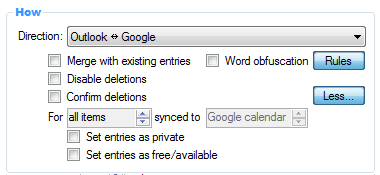
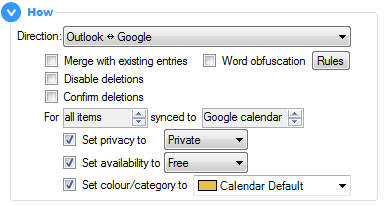
User guide updated to v2.9.6 Twitter box dimensions fixed. #1466

diff --git a/_layouts/default.html b/_layouts/default.html
@@ -69,10 +69,10 @@
           <br/>
 
           <h1 style="margin-top:0px; text-align:center; font-family: 'Architects Daughter', 'Helvetica Neue', Helvetica, Arial, serif;">Tweets</h1>
-          <div style="display: inline-block; height: 155px;"></div>
+          <div style="display: inline-block; height: 255px;"></div>
           
-          <span id="foobar" style="position:absolute; clip: rect(44px,220px,204px,0px); margin-top: -60px;">
-            <a class="twitter-timeline" data-width="220" data-height="250" href="https://twitter.com/OGcalsync?ref_src=twsrc%5Etfw">Tweets by OGcalsync</a>
+          <span id="foobar" style="position:absolute; clip: rect(73px,220px,350px,0px); margin-top: -90px;">
+            <a class="twitter-timeline" data-width="220" data-height="350" href="https://twitter.com/OGcalsync?ref_src=twsrc%5Etfw">Tweets by OGcalsync</a>
             <script async src="https://platform.twitter.com/widgets.js" charset="utf-8"></script>
           </span>
           

diff --git a/guide/syncoptions.md b/guide/syncoptions.md
@@ -21,27 +21,29 @@ These next configuration items help you manage what should happen with items tha
 
 **Merge with existing entries:** It is recommended the target calendar is either empty or a new calendar created specifically for OGCS to sync with. This will make it easier for you to identify what has been synced etc. However, if you need to sync into a calendar that contains items not present in the source calendar and <font style="color:red">you want to keep those items</font>, check this option. 
 <div class="tip" style="margin-bottom:7px">:bulb: Such a situation may arise if you wish to sync your work Outlook calendar in to the default Google calendar, in order that Alexa or Google Home can announce your schedule for the day.</div>
+
 **Disable deletions:** This option is mostly a safeguard to be used by new users of OGCS. Once you have confidence the tool is working as expected, it should most likely be switched off.  
-**Confirm deletions:** Once deletions have been permitted, if you turn this option on, each deletion will prompt you to confirm or deny if this should be allowed. Again, this is to help you gain confidence you have the right configuration and OGCS is doing what you expect. It is not intended as a setting to have enabled long term.
+**Confirm deletions:** Once deletions have been permitted, if you turn this option on, each deletion will prompt you to confirm or deny if this should be allowed. Again, this is to help you gain confidence you have the right configuration and OGCS is doing what you expect. It is not intended as a setting to have enabled long term.  
+If a sync causes every single item in the target calendar to be deleted before creating new items a-new, then there is always a "bulk deletion" warning, irrespective of the above settings. This is to provide a chance to confirm this is definitely expected and intended.  
 
-<img src="options-how-regex.png" alt="Word Obfuscation Screenshot" align="right" />
-**Word obfuscation:** Through the use of [regular expressions](https://www.regular-expressions.info), certain letters, words or phrases in the calendar item’s subject can be altered. By clicking the `Rules` button, you will see a table with `Find` and `Replace` columns; each row of regular expression rules would be applied in the order given using AND logic.
-<div class="tip">:memo: If two-way sync is configured, the obfuscation can only work in one direction - choose which from the drop down menu.</div>
-<br/>
-
+Specific attributes can be overridden in the target calendar:
 <img src="options-how-more.png" alt="More Options Screenshot" align="right" />
-**More:** Click the button to expand the section for further options. The button text will change to `Less`, which if clicked will shrink the section back to its original size.
-
-The following options override the item’s attribute when synced to the target calendar.
 <ul style="margin-top:-20px; margin-left:20px">
-  <li>Set as private</li>
-  <li>Set as free/available</li>
+  <li>Set privacy as private/public</li>
+  <li>Set availability as free/busy. Also tentative/out of office if syncing to Outlook</li>
+  <li>Set colour/category</li>
 </ul>
 For two-way sync, you can choose between Outlook and Google as to which is the target calendar, as well as whether to implement the override
 <ul style="margin-top:-20px; margin-left:20px">
   <li>For all synced items; or</li>
   <li>Only for items newly created by the sync tool</li>
 </ul>
+This second option means that the overridden attribute(s) will not sync back to the source calendar - otherwise, for example, _everything_ would end up private which is probably not what is intended.
+
+<img src="options-how-regex.png" alt="Word Obfuscation Screenshot" align="right" />
+**Word obfuscation:** Through the use of [regular expressions](https://www.regular-expressions.info), certain letters, words or phrases in the calendar item’s subject can be altered. By clicking the `Rules` button, you will see a table with `Find` and `Replace` columns; each row of regular expression rules would be applied in the order given using AND logic.
+<div class="tip">:memo: If two-way sync is configured, the obfuscation can only work in one direction - choose which from the drop down menu.</div>
+<br/>
 
 
 ## When
@@ -52,7 +54,7 @@ _Specify when to run a sync._
 If a recurring appointment spans the date range specified, then it will also be synced. A minor exception to this are annual recurrence patterns - these will only sync if the month of the appointment falls into a month within the sync date range.
 <div class="tip" style="padding-bottom:8px">:bulb: To optimise the sync speed, the smaller the date range the better. Try to avoid a large date range combined with a frequent sync interval.</div>
 
-**Interval:** The number of hours or minutes between automated syncs. 
+**Schedule:** The number of hours or minutes between automated syncs. 
 Setting it to zero turns off automated syncs, relying upon on-demand manual synchronisations.  
 15 minutes is the minimum sync frequency allowed, unless Push Sync is _also_ enabled in which case it is 120 minutes.  
 **Push Outlook Changes Immediately:** Have OGCS detect when calendar items are changed within Outlook and sync them within 2 minutes.
@@ -64,17 +66,30 @@ _Specify which attributes to include in the sync._
 
 With all of these settings, when turned **on** they will only sync from that point forward. To sync them for all calendar items, press and hold `Shift` while clicking the `Sync` button. When turning sync **off** data already synced will not be removed - this will need to be done manually and is to protect against loss of data should two-way sync ever be configured.
 
-**Description:** The body of the appointment.
-<p style="margin-left:40px; margin-top:-20px"><b>One-way to Google:</b> If two-way sync is configured, optionally only sync the description to Google. Because has a maximum of 8kb held in plain text, it may cause information or formatting to be lost if subsequently synced back from Google.</p>
+<img src="options-what.png" alt="What Screenshot" align="right" />
 
-**Attendees:** Sync the meeting attendees, using their email address as their unique identifier. 
+**Location:** The location of the appointment.
+
+**Description:** The body of the appointment.
+<p style="margin-left:40px; margin-top:-20px">**One-way to Google:** If two-way sync is configured, optionally only sync the description to Google. Because Google has a maximum of 8kb held in plain text, it may cause information or formatting to be lost if subsequently synced back from Google.</p>
+
+**Attendees:** Sync the meeting attendees, using their email address as their unique identifier. A default maximum of 200 attendees can be synced, or specify a lower limit.
 <div class="tip">:warning:This option is likely to trigger the Outlook security popup. If you cannot prevent this through <a href="{{ site.github-repo }}/wiki/FAQs---Outlook-Security#how-can-i-stop-it-happening">standard settings</a>, it may be best to stop syncing attendees.</div>
 
-<p style="margin-left:40px;"><b>Cloak email in Google:</b> Google has been known to <a href="{{ site.github-repo }}/wiki/FAQs#why-are-my-meeting-attendees-getting-notified-of-updates-to-events-in-google">send out unsolicited notification emails</a> to attendees. To prevent this, the default is to “cloak” the attendee’s email address by appending <code class="highlighter-rouge">.ogcs</code>, thus making any such emails undeliverable.</p>
+<p style="margin-left:40px;">**Cloak email in Google:** Google has been known to <a href="{{ site.github-repo }}/wiki/FAQs#why-are-my-meeting-attendees-getting-notified-of-updates-to-events-in-google">send out unsolicited notification emails</a> to attendees. To prevent this, the default is to “cloak” the attendee’s email address by appending <code class="highlighter-rouge">.ogcs</code>, thus making any such emails undeliverable.</p>
+
+<img src="ogcs-colour.gif" alt="Demo of syncing colours" align="right" width="50%"/>
+**Colours/categories:** The Outlook category and/or Google colour can be synced, which uses an algorithm to match to the closest equivalent colour. If there are multiple categories in Outlook with the same colour, or the wrong colour is being matched, there are more fine-grained controls under the `Mapping` button.
+
+<p style="margin-left:40px; margin-top:-20px">The <code class="highlighter-rouge">Test map</code> section shows how each colour will map to the other system. The table below can be used to specify alternative mappings from the default - eg the red Outlook "My Test" category mapped to the "Banana" colour in Google.</p>
+
+<p style="margin-left:40px; margin-top:-20px"><b>Single category only:</b> Google only allows a single colour, so this would enforce only one Outlook category. If unchecked, the sync will create new categories for each synced colour, with a name prefixed by "OGCS ".</p>
+
 
 **Reminders:** Include reminders/alerts in order to be notified of upcoming meetings. 
 
 <p style="margin-left:40px; margin-top:-20px"><b>Use Google Default:</b> It is possible to configure a default reminder within a Google calendar that all items within it will inherit. Check this option to allow this behaviour to continue; otherwise the Outlook reminder will take precedence - and if none is set, Google will not have a reminder either.</p>
+<p style="margin-left:40px; margin-top:-20px"><b>Use Outlook Default:</b> It is possible to configure a default reminder within Outlook settings that all items will inherit. Check this option to allow this behaviour to continue; otherwise the Google reminder with the shortice notice period will take precedence - and if none is set, Outlook will not have a reminder either.</p>
 <p style="margin-left:40px; margin-top:-20px"><b>DND between hours x and y:</b> Syncing from Outlook to Google is the most popular option, usually in order to see work commitments on an Android phone. For all-day appointments especially, this can mean an unnecessary midnight alert (thanks to the default Microsoft reminder of 15 minutes)! To avoid this, configure a “do not disturb” window in which reminders will not be synced.</p>
 
 

diff --git a/guide/appbehaviour.md b/guide/appbehaviour.md
@@ -13,23 +13,26 @@ next-url: help
 ![Application Behaviour Settings Screenshot](options-appbehaviour.png)
 
 **Start on login:** Set OGCS to start up when you log in to Windows. 
-<p style="margin-left:40px;margin-top:-20px"><b>Delay:</b> On system’s that take a little while to get started, OGCS can encounter problems if starts too quickly - especially if Outlook is also set to start on startup. If OGCS only seems to have problems on system startup, try setting a delay.</p>
+<p style="margin-left:40px;margin-top:-20px"><b>Delay:</b> On system’s that take a little while to get started, OGCS can encounter problems if it starts too quickly - especially if Outlook is also set to start on startup. If OGCS only seems to have problems on system startup, try setting a delay.</p>
+<p style="margin-left:40px;margin-top:-20px"><b>For all users:</b> Configure OGCS to start, with optional delay, for an user that logs in to Windows.</p>
 
-**Hide splash screen:** If you have donated £10 or more, you have the option of stopping the startup splash screen from displaying.  
+**Hide splash screen:** If you have donated £10 or more, you have the option of stopping the startup splash screen from displaying. Optionally, also to suppress any prompts to spread the word on social media.  
 **Start in tray:** Instead of showing the application window on startup, set it to only display in the Windows notification tray are  a. From here you can control the syncs or show the application by right clicking the icon.  
 **Minimise to tray:** By default, OGCS will have an application icon in the main taskbar area. This option will make it only display an icon in the notification area instead.  
 <img src="options-appbehaviour-close.png" align="right" width="60%"/>
 **Close button minimises:** Prevent the application from closing when clicking on the standard top right “close” button. Instead it will simply minimise.   
 **Show bubble tooltip in tray when syncing:** Get notifications when a sync begins and a summary of the changes on completion.  
 **Make application portable:** Only available, but enabled by default, if the portable ZIP application is being used.  
-**Create CSV files of calendar entries:** This can be turned on to aid investigation of a possible problem, usually under instruction having raised a [GitHub Issue]({{ site.github-repo }}/issues).  
 
 ### Logging
-**Logging level:** Set the level of detail captured in the log file. From `OFF` through to `ALL`, with `DEBUG` being the default. Ensure it is set to `DEBUG` or greater if attaching it to a [GitHub Issue]({{ site.github-repo }}/issues).
+**Logging level:** Set the level of detail captured in the log file. From `OFF` through to `ALL`, with `DEBUG` being the default. Ensure it is set to `DEBUG` or greater if attaching it to a [GitHub Issue]({{ site.github-repo }}/issues).  
+**Feedback errors to help improve OGCS:** If you are unfortunate enough to encounter an error, there is the option to automatically report this and future errors back to the developer - which helps them proactively identify problems and fix them!  
+**Disable telemetry:** By default the software reports basic anonymised data, such as version of OGCS and Outlook being used.  
+**Create CSV files of calendar entries:** This can be turned on to aid investigation of a possible problem, usually under instruction having raised a [GitHub Issue]({{ site.github-repo }}/issues).  
 
 ## Proxy Settings
-**No Proxy:** When there is a direct connection to the internet, for example, using home broadband.
-Inherit from Internet Explorer: Use the same settings as configured in Internet Explorer. Normally the best option if connecting through a corporate proxy, or use a PAC file etc.  
+**No Proxy:** When there is a direct connection to the internet, for example, using home broadband.  
+**Inherit from Internet Explorer:** Use the same settings as configured in Internet Explorer. Normally the best option if connecting through a corporate proxy, or use a PAC file etc.  
 **Custom Settings:** Manually enter the proxy server and port, plus your proxy credentials if required.
 
 

diff --git a/guide/google.md b/guide/google.md
@@ -14,16 +14,22 @@ This is where you configure the Google calendar you wish to sync.
 
 ![Google Settings Screenshot](google.png)
 
-**Retrieve calendars:** Until you click this button, you will not be able to select the exact calendar. If this is the first time you are using OGCS, it will step you through the process of authorising the application to access your calendar.  
-<br/>
-<div class="tip">:memo: At no point do you have to provide OGCS your Google account password. Technically, a process called OAuth is used - from v2.6.1, once you have logged into Google a special authentication code will automatically be provided to OGCS. In earlier versions, you will need to manually copy and paste the code in to OGCS.</div>
-<br/>
-<div class="tip">:warning: If you have used any other third party software and have entered your Google password directly into the application, it is strongly recommended you change your password immediately.
-Disconnect Account: If you wish to go through the authentication process again, or change the Google account you previously configured OGCS to work with, then click this button.</div>
-<br/>
-If you wish to revoke authorisation from OGCS for accessing your calendar, navigate to [https://myaccount.google.com/permissions](https://myaccount.google.com/permissions), click on `Outlook Google Calendar Sync` and then `Remove Access`.
+**Connected Account:** Once OGCS has been authorised to connect to a Google calendar, the associated account will appear here. Donations are associated with this account, where ever OGCS is installed or used.
 
-**Select calendar:** Once successfully authenticated, chose the calendar you wish to sync with.
+**Retrieve calendars:** Until clicked, a calendar cannot be selected. If this is the first use of OGCS, it will step through the process of authorising the application to then access the calendars.  
+<br/>
+<div class="tip">:memo: At no point is the Google account password used or revealed. Technically, a process called OAuth is used - from v2.6.1, once logged into Google, a special authentication code will automatically be provided to OGCS. In earlier versions, a code needed to be manually copy and pasted in to OGCS.</div>
+<br/>
+<div class="tip">:warning: If any other third party software required entry of a Google password directly into the application, it is strongly recommended you change your password immediately.
+
+**Disconnect Account:** To go through the authentication process again, or change the Google account previously configured for OGCS to work with, then click this button.</div>
+<br/>
+To revoke authorisation from OGCS continuing to access a Google account, navigate to [https://myaccount.google.com/permissions](https://myaccount.google.com/permissions), click on `Outlook Google Calendar Sync` and then `Remove Access`.
+
+**Select calendar:** Once successfully authenticated, chose the calendar to sync with.
+
+**Exclude invitations I have declined:** Do not sync Google events that have been declined.  
+**Exclude "Goal" events from sync:** Do not sync Google _Goals_ (a now [deprecated Google feature](https://support.google.com/calendar/answer/12207659), replaced by _focus time_ for those with work or school accounts)
 
 ### Advanced/developer options
 This section allows users to utilise their own personal Google API quota. You will need to know the client ID and secret as provided within your Google developer console. Google Plus and Calendar APIs must be enabled for OGCS to work.

diff --git a/guide/outlook.md b/guide/outlook.md
@@ -23,6 +23,8 @@ This is where you configure the Outlook calendar you wish to sync.
 ### Filtering
 **Filter categories:** Restrict the items to be synced by either excluding or including various categories that have been assigned to calendar appointments. Your selection will automatically invert which switching between include or exclude. The default is to not exclude anything.
 
+**Only sync invites I've responded to:** Exclude invitations without a response.
+
 ### Date Format
 **Regional Date Format:** If OGCS is not finding any Outlook items to sync, even though you know they definitely exist, you will likely need to change this setting. As explained within the application, Microsoft does not appear to support a uniform method by which to translate date text into a date range and then use this to retrieve Outlook calendar items. Unfortunately, this gets worse for non-English locales.  
 <br/>

diff --git a/guide/settings.md b/guide/settings.md
@@ -14,6 +14,11 @@ Use the sub tabs on this screen to configure OGCS to work how you need it to.
 
 Remember the settings do not automatically save and will only persist through a restart of OGCS by clicking the `Save` button.
 
+## Profiles
+
+![Profiles Screenshot](profiles.png)
+
+All of the configuration under the `Sync Settings` tab is assigned to a _Profile_. To sync more than one calendar, each should be configured in their own _Profile_.
 
 <p>&nbsp;</p>
 {% include navigation-buttons.html %}
